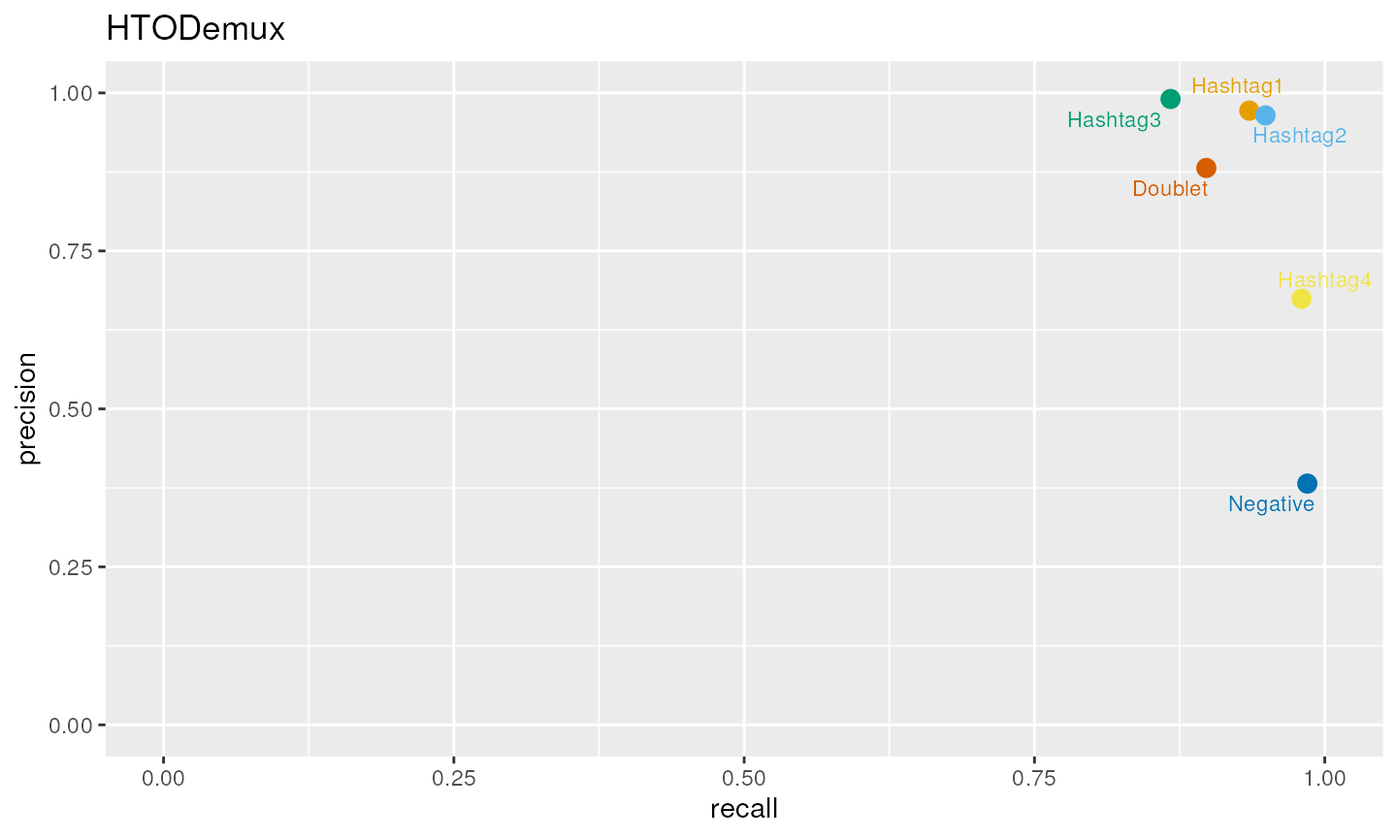
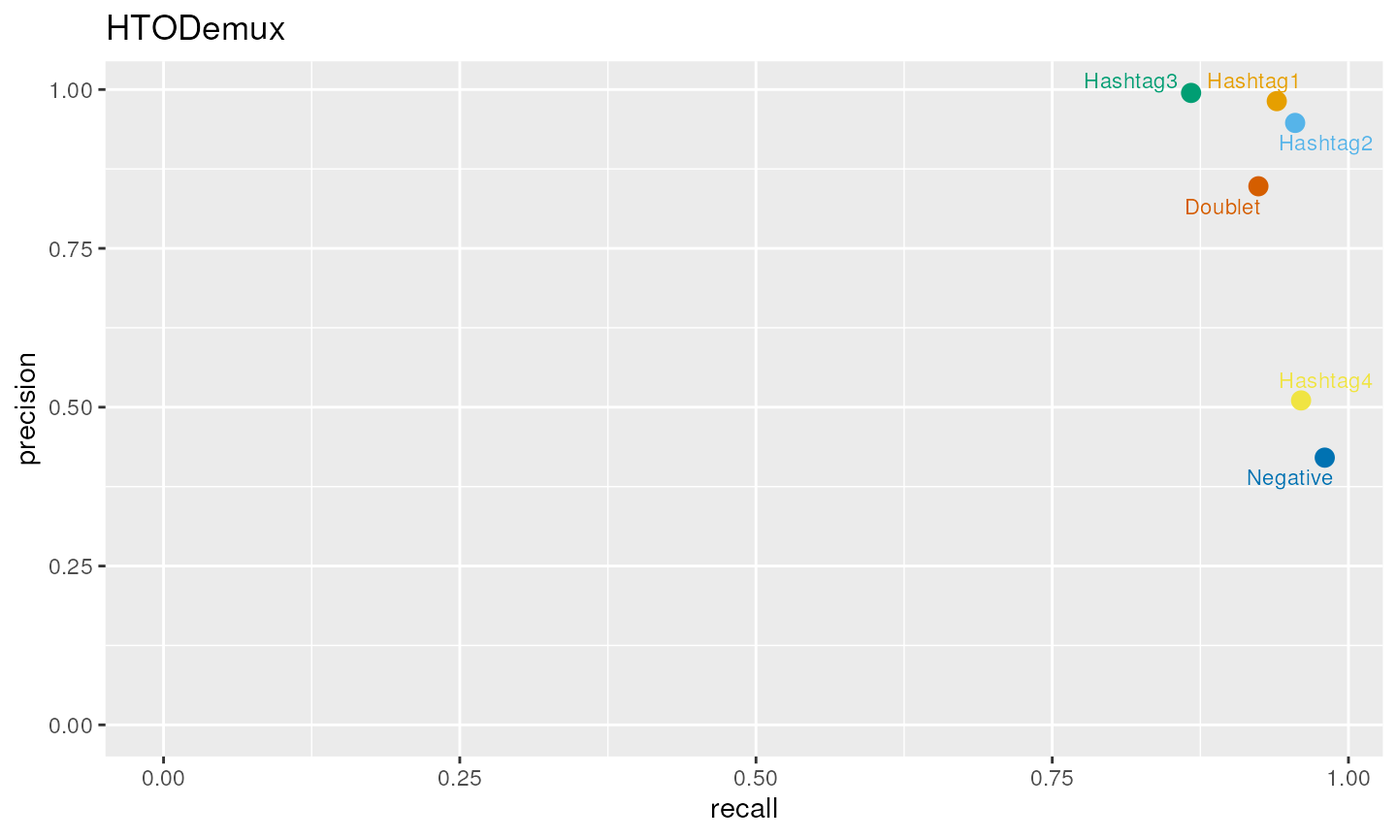
Deploying to gh-pages from @ michaelplynch/demultiplexing-bioc23@bce93db0af980b5a1336cb15e2a2da5696768368 🚀

diff --git a/articles/b-hashing-benchmarking.html b/articles/b-hashing-benchmarking.html
@@ -86,7 +86,7 @@ algorithms</h1>
                         <h4 data-toc-skip class="author">Michael
 Lynch</h4>
             
-            <h4 data-toc-skip class="date">2023-07-20</h4>
+            <h4 data-toc-skip class="date">2023-07-21</h4>
       
       <small class="dont-index">Source: <a href="https://github.com/michaelplynch/demultiplexing-bioc23/blob/HEAD/vignettes/b-hashing-benchmarking.Rmd" class="external-link"><code>vignettes/b-hashing-benchmarking.Rmd</code></a></small>
       <div class="hidden name"><code>b-hashing-benchmarking.Rmd</code></div>
@@ -202,7 +202,11 @@ associated with poor hashing quality.</p>
 <span><span class="co">#&gt; Warning: Using `bins = 30` by default. Pick better value with the argument</span></span>
 <span><span class="co">#&gt; `bins`.</span></span>
 <span><span class="co">#myplots[[5]]&lt;-xy</span></span>
-<span><span class="fu"><a href="https://rdrr.io/r/base/do.call.html" class="external-link">do.call</a></span><span class="op">(</span><span class="va">grid.arrange</span>,<span class="fu"><a href="https://rdrr.io/r/base/c.html" class="external-link">c</a></span><span class="op">(</span><span class="va">myplots</span>,nrow<span class="op">=</span><span class="fl">1</span><span class="op">)</span><span class="op">)</span></span></code></pre></div>
+<span><span class="fu"><a href="https://rdrr.io/r/base/do.call.html" class="external-link">do.call</a></span><span class="op">(</span><span class="va">grid.arrange</span>,<span class="fu"><a href="https://rdrr.io/r/base/c.html" class="external-link">c</a></span><span class="op">(</span><span class="va">myplots</span>,nrow<span class="op">=</span><span class="fl">1</span><span class="op">)</span><span class="op">)</span></span>
+<span><span class="co">#&gt; Warning: Removed 1 rows containing missing values (`geom_bar()`).</span></span>
+<span><span class="co">#&gt; Warning: Removed 1 rows containing missing values (`geom_bar()`).</span></span>
+<span><span class="co">#&gt; Removed 1 rows containing missing values (`geom_bar()`).</span></span>
+<span><span class="co">#&gt; Removed 1 rows containing missing values (`geom_bar()`).</span></span></code></pre></div>
 <p><img src="b-hashing-benchmarking_files/figure-html/unnamed-chunk-4-1.png" width="864"></p>
 <div class="sourceCode" id="cb6"><pre class="downlit sourceCode r">
 <code class="sourceCode R"><span></span>
@@ -219,10 +223,10 @@ associated with poor hashing quality.</p>
 ## Poor quality hashing</p>
 <div class="sourceCode" id="cb7"><pre class="downlit sourceCode r">
 <code class="sourceCode R"><span></span>
-<span><span class="va">mu1</span><span class="op">&lt;-</span><span class="fl">500</span></span>
-<span><span class="va">mu2</span><span class="op">&lt;-</span><span class="fl">30</span></span>
-<span><span class="va">mat</span><span class="op">&lt;-</span><span class="fu"><a href="../reference/logimat.html">logimat</a></span><span class="op">(</span>ngroups<span class="op">=</span><span class="fl">4</span>,nsinglet<span class="op">=</span><span class="fu"><a href="https://rdrr.io/r/base/c.html" class="external-link">c</a></span><span class="op">(</span><span class="fl">2000</span>,<span class="fl">1000</span>,<span class="fl">2500</span>,<span class="fl">150</span><span class="op">)</span>,ndoub<span class="op">=</span><span class="fl">1000</span>,nneg<span class="op">=</span><span class="fl">200</span><span class="op">)</span></span>
-<span><span class="va">counts</span><span class="op">&lt;-</span><span class="fu"><a href="../reference/draw_counts.html">draw_counts</a></span><span class="op">(</span>size_sig<span class="op">=</span><span class="fl">2.5</span>,size_bg <span class="op">=</span> <span class="fl">3.5</span>,mu_sig <span class="op">=</span> <span class="fu"><a href="https://rdrr.io/r/base/c.html" class="external-link">c</a></span><span class="op">(</span><span class="va">mu1</span><span class="op">*</span><span class="fl">1.2</span>,<span class="va">mu1</span><span class="op">*</span><span class="fl">0.8</span>,<span class="va">mu1</span><span class="op">*</span><span class="fl">0.7</span>,<span class="va">mu1</span><span class="op">*</span><span class="fl">0.9</span><span class="op">)</span>,mu_bg <span class="op">=</span> <span class="fu"><a href="https://rdrr.io/r/base/c.html" class="external-link">c</a></span><span class="op">(</span><span class="va">mu2</span>,<span class="va">mu2</span>,<span class="va">mu2</span>,<span class="va">mu2</span><span class="op">)</span>,mat<span class="op">=</span><span class="va">mat</span>,seed<span class="op">=</span><span class="fl">1</span><span class="op">)</span></span>
+<span><span class="va">mu1</span><span class="op">&lt;-</span><span class="fl">400</span></span>
+<span><span class="va">mu2</span><span class="op">&lt;-</span><span class="fl">20</span></span>
+<span><span class="va">mat</span><span class="op">&lt;-</span><span class="fu"><a href="../reference/logimat.html">logimat</a></span><span class="op">(</span>ngroups<span class="op">=</span><span class="fl">4</span>,nsinglet<span class="op">=</span><span class="fu"><a href="https://rdrr.io/r/base/c.html" class="external-link">c</a></span><span class="op">(</span><span class="fl">2000</span>,<span class="fl">1000</span>,<span class="fl">3200</span>,<span class="fl">150</span><span class="op">)</span>,ndoub<span class="op">=</span><span class="fl">1000</span>,nneg<span class="op">=</span><span class="fl">200</span><span class="op">)</span></span>
+<span><span class="va">counts</span><span class="op">&lt;-</span><span class="fu"><a href="../reference/draw_counts.html">draw_counts</a></span><span class="op">(</span>size_sig<span class="op">=</span><span class="fl">2.5</span>,size_bg <span class="op">=</span> <span class="fu"><a href="https://rdrr.io/r/base/c.html" class="external-link">c</a></span><span class="op">(</span><span class="fl">2.5</span>,<span class="fl">2.5</span>,<span class="fl">2</span>,<span class="fl">2.5</span><span class="op">)</span>,mu_sig <span class="op">=</span> <span class="fu"><a href="https://rdrr.io/r/base/c.html" class="external-link">c</a></span><span class="op">(</span><span class="va">mu1</span><span class="op">*</span><span class="fl">1.2</span>,<span class="va">mu1</span><span class="op">*</span><span class="fl">0.9</span>,<span class="va">mu1</span><span class="op">*</span><span class="fl">0.7</span>,<span class="va">mu1</span><span class="op">*</span><span class="fl">0.9</span><span class="op">)</span>,mu_bg <span class="op">=</span> <span class="fu"><a href="https://rdrr.io/r/base/c.html" class="external-link">c</a></span><span class="op">(</span><span class="va">mu2</span>,<span class="va">mu2</span>,<span class="va">mu2</span>,<span class="va">mu2</span><span class="op">)</span>,mat<span class="op">=</span><span class="va">mat</span>,seed<span class="op">=</span><span class="fl">1</span><span class="op">)</span></span>
 <span><span class="va">hto</span><span class="op">&lt;-</span><span class="fu"><a href="https://rdrr.io/pkg/SingleCellExperiment/man/SingleCellExperiment.html" class="external-link">SingleCellExperiment</a></span><span class="op">(</span><span class="fu"><a href="https://rdrr.io/r/base/list.html" class="external-link">list</a></span><span class="op">(</span>counts<span class="op">=</span><span class="va">counts</span><span class="op">)</span><span class="op">)</span></span>
 <span></span>
 <span><span class="va">seurat</span><span class="op">&lt;-</span><span class="fu"><a href="https://mojaveazure.github.io/seurat-object/reference/CreateSeuratObject.html" class="external-link">CreateSeuratObject</a></span><span class="op">(</span>counts<span class="op">=</span><span class="va">counts</span>,assay<span class="op">=</span><span class="st">"HTO"</span><span class="op">)</span></span>
@@ -247,7 +251,7 @@ associated with poor hashing quality.</p>
 <span><span class="va">df</span><span class="op">&lt;-</span><span class="fu"><a href="https://rdrr.io/r/base/data.frame.html" class="external-link">data.frame</a></span><span class="op">(</span><span class="va">precision</span>,<span class="va">recall</span>,<span class="va">groups</span><span class="op">)</span></span>
 <span></span>
 <span><span class="co">#split=seurat$hashtag=="Hashtag4" &amp; seurat$hash.ID!= "Hashtag4"</span></span>
-<span><span class="va">myplots</span><span class="op">&lt;-</span><span class="fu"><a href="../reference/plot_hashtag.html">plot_hashtag</a></span><span class="op">(</span><span class="fu"><a href="https://rdrr.io/r/base/as.data.frame.html" class="external-link">as.data.frame</a></span><span class="op">(</span><span class="fu"><a href="https://rdrr.io/r/base/t.html" class="external-link">t</a></span><span class="op">(</span><span class="va">seurat</span><span class="op">[[</span><span class="st">"HTO"</span><span class="op">]</span><span class="op">]</span><span class="op">@</span><span class="va">data</span><span class="op">)</span><span class="op">)</span>,split<span class="op">=</span><span class="cn">NULL</span><span class="op">)</span></span>
+<span><span class="va">myplots</span><span class="op">&lt;-</span><span class="fu"><a href="../reference/plot_hashtag.html">plot_hashtag</a></span><span class="op">(</span><span class="fu"><a href="https://rdrr.io/r/base/as.data.frame.html" class="external-link">as.data.frame</a></span><span class="op">(</span><span class="fu"><a href="https://rdrr.io/r/base/t.html" class="external-link">t</a></span><span class="op">(</span><span class="va">seurat</span><span class="op">[[</span><span class="st">"HTO"</span><span class="op">]</span><span class="op">]</span><span class="op">@</span><span class="va">data</span><span class="op">)</span><span class="op">)</span>,split<span class="op">=</span><span class="cn">NULL</span>,xlim<span class="op">=</span><span class="fu"><a href="https://rdrr.io/r/base/c.html" class="external-link">c</a></span><span class="op">(</span><span class="fl">0</span>,<span class="fl">4</span><span class="op">)</span>,ylim<span class="op">=</span><span class="fu"><a href="https://rdrr.io/r/base/c.html" class="external-link">c</a></span><span class="op">(</span><span class="fl">0</span>,<span class="fl">2000</span><span class="op">)</span><span class="op">)</span></span>
 <span><span class="co">#myplots[[5]]&lt;-xy</span></span>
 <span><span class="fu"><a href="https://rdrr.io/r/base/do.call.html" class="external-link">do.call</a></span><span class="op">(</span><span class="va">grid.arrange</span>,<span class="fu"><a href="https://rdrr.io/r/base/c.html" class="external-link">c</a></span><span class="op">(</span><span class="va">myplots</span>,nrow<span class="op">=</span><span class="fl">1</span><span class="op">)</span><span class="op">)</span></span></code></pre></div>
 <p><img src="b-hashing-benchmarking_files/figure-html/unnamed-chunk-6-1.png" width="864"></p>
@@ -259,8 +263,8 @@ associated with poor hashing quality.</p>
 <span>  <span class="fu"><a href="https://rdrr.io/pkg/ggrepel/man/geom_text_repel.html" class="external-link">geom_text_repel</a></span><span class="op">(</span><span class="fu"><a href="https://ggplot2.tidyverse.org/reference/aes.html" class="external-link">aes</a></span><span class="op">(</span>label<span class="op">=</span><span class="va">groups</span><span class="op">)</span>, size<span class="op">=</span><span class="fl">3</span>,show.legend <span class="op">=</span> <span class="cn">FALSE</span>,force<span class="op">=</span><span class="fl">10</span><span class="op">)</span> <span class="op">+</span></span>
 <span>  <span class="fu"><a href="https://ggplot2.tidyverse.org/reference/scale_continuous.html" class="external-link">scale_x_continuous</a></span><span class="op">(</span>labels <span class="op">=</span> <span class="fu"><a href="https://scales.r-lib.org/reference/label_number.html" class="external-link">label_number</a></span><span class="op">(</span>accuracy <span class="op">=</span> <span class="fl">0.01</span><span class="op">)</span><span class="op">)</span> <span class="op">+</span></span>
 <span>  <span class="fu"><a href="https://ggplot2.tidyverse.org/reference/scale_continuous.html" class="external-link">scale_y_continuous</a></span><span class="op">(</span>labels <span class="op">=</span> <span class="fu"><a href="https://scales.r-lib.org/reference/label_number.html" class="external-link">label_number</a></span><span class="op">(</span>accuracy <span class="op">=</span> <span class="fl">0.01</span><span class="op">)</span><span class="op">)</span> <span class="op">+</span> </span>
-<span>  <span class="fu"><a href="https://ggplot2.tidyverse.org/reference/lims.html" class="external-link">xlim</a></span><span class="op">(</span><span class="fl">0</span>,<span class="fl">1</span><span class="op">)</span> <span class="op">+</span></span>
-<span>  <span class="fu"><a href="https://ggplot2.tidyverse.org/reference/lims.html" class="external-link">ylim</a></span><span class="op">(</span><span class="fl">0</span>,<span class="fl">1</span><span class="op">)</span> <span class="op">+</span> <span class="fu"><a href="https://ggplot2.tidyverse.org/reference/labs.html" class="external-link">ggtitle</a></span><span class="op">(</span><span class="st">"HTODemux"</span><span class="op">)</span></span>
+<span>  <span class="fu"><a href="https://ggplot2.tidyverse.org/reference/lims.html" class="external-link">xlim</a></span><span class="op">(</span><span class="fl">0</span>,<span class="cn">NA</span><span class="op">)</span> <span class="op">+</span></span>
+<span>  <span class="fu"><a href="https://ggplot2.tidyverse.org/reference/lims.html" class="external-link">ylim</a></span><span class="op">(</span><span class="fl">0</span>,<span class="cn">NA</span><span class="op">)</span> <span class="op">+</span> <span class="fu"><a href="https://ggplot2.tidyverse.org/reference/labs.html" class="external-link">ggtitle</a></span><span class="op">(</span><span class="st">"HTODemux"</span><span class="op">)</span></span>
 <span><span class="va">xy</span></span></code></pre></div>
 <p><img src="b-hashing-benchmarking_files/figure-html/unnamed-chunk-7-1.png" width="720"></p>
 <div class="sourceCode" id="cb9"><pre class="downlit sourceCode r">

diff --git a/articles/a-intro-to-demultiplexing.html b/articles/a-intro-to-demultiplexing.html
@@ -85,7 +85,7 @@
                         <h4 data-toc-skip class="author">Michael
 Lynch</h4>
             
-            <h4 data-toc-skip class="date">2023-07-20</h4>
+            <h4 data-toc-skip class="date">2023-07-21</h4>
       
       <small class="dont-index">Source: <a href="https://github.com/michaelplynch/demultiplexing-bioc23/blob/HEAD/vignettes/a-intro-to-demultiplexing.Rmd" class="external-link"><code>vignettes/a-intro-to-demultiplexing.Rmd</code></a></small>
       <div class="hidden name"><code>a-intro-to-demultiplexing.Rmd</code></div>
@@ -243,20 +243,24 @@ quality rather than RNA quality.</p>
 <span><span class="co">## `bins`.</span></span></code></pre>
 <div class="sourceCode" id="cb14"><pre class="downlit sourceCode r">
 <code class="sourceCode R"><span><span class="fu"><a href="https://rdrr.io/r/base/do.call.html" class="external-link">do.call</a></span><span class="op">(</span><span class="va">grid.arrange</span>,<span class="va">myplots</span><span class="op">)</span></span></code></pre></div>
+<pre><code><span><span class="co">## Warning: Removed 1 rows containing missing values (`geom_bar()`).</span></span></code></pre>
+<pre><code><span><span class="co">## Warning: Removed 1 rows containing missing values (`geom_bar()`).</span></span>
+<span><span class="co">## Removed 1 rows containing missing values (`geom_bar()`).</span></span>
+<span><span class="co">## Removed 1 rows containing missing values (`geom_bar()`).</span></span></code></pre>
 <p><img src="a-intro-to-demultiplexing_files/figure-html/unnamed-chunk-10-1.png" width="100%"></p>
 <p>Reduction in hashing quality leads to reduction in cell hashing
 algorithm performance.</p>
-<div class="sourceCode" id="cb15"><pre class="downlit sourceCode r">
+<div class="sourceCode" id="cb17"><pre class="downlit sourceCode r">
 <code class="sourceCode R"><span><span class="va">sce</span><span class="op">&lt;-</span><span class="fu"><a href="https://rdrr.io/pkg/BiocSingular/man/runPCA.html" class="external-link">runPCA</a></span><span class="op">(</span><span class="va">sce</span>, altexp<span class="op">=</span><span class="st">"HTO"</span>, exprs_values <span class="op">=</span> <span class="st">"logcounts"</span><span class="op">)</span></span></code></pre></div>
 <pre><code><span><span class="co">## Warning in check_numbers(k = k, nu = nu, nv = nv, limit = min(dim(x)) - : more</span></span>
 <span><span class="co">## singular values/vectors requested than available</span></span></code></pre>
 <pre><code><span><span class="co">## Warning in (function (A, nv = 5, nu = nv, maxit = 1000, work = nv + 7, reorth =</span></span>
 <span><span class="co">## TRUE, : You're computing too large a percentage of total singular values, use a</span></span>
 <span><span class="co">## standard svd instead.</span></span></code></pre>
-<div class="sourceCode" id="cb18"><pre class="downlit sourceCode r">
+<div class="sourceCode" id="cb20"><pre class="downlit sourceCode r">
 <code class="sourceCode R"><span><span class="fu"><a href="https://rdrr.io/pkg/dittoSeq/man/dittoDimPlot.html" class="external-link">dittoDimPlot</a></span><span class="op">(</span><span class="va">sce</span>,reduction.use<span class="op">=</span><span class="st">"PCA"</span>,<span class="st">"doubletClassify_between_label"</span><span class="op">)</span></span></code></pre></div>
 <p><img src="a-intro-to-demultiplexing_files/figure-html/unnamed-chunk-11-1.png" width="700"></p>
-<div class="sourceCode" id="cb19"><pre class="downlit sourceCode r">
+<div class="sourceCode" id="cb21"><pre class="downlit sourceCode r">
 <code class="sourceCode R"><span><span class="va">sce</span><span class="op">&lt;-</span><span class="fu"><a href="https://rdrr.io/pkg/scater/man/runTSNE.html" class="external-link">runTSNE</a></span><span class="op">(</span><span class="va">sce</span>, altexp <span class="op">=</span> <span class="st">"HTO"</span><span class="op">)</span></span>
 <span><span class="fu"><a href="https://rdrr.io/pkg/dittoSeq/man/dittoDimPlot.html" class="external-link">dittoDimPlot</a></span><span class="op">(</span><span class="va">sce</span>,reduction.use<span class="op">=</span><span class="st">"TSNE"</span>,<span class="st">"doubletClassify_between_label"</span><span class="op">)</span></span></code></pre></div>
 <p><img src="a-intro-to-demultiplexing_files/figure-html/unnamed-chunk-11-2.png" width="700"></p>
@@ -268,7 +272,7 @@ algorithm performance.</p>
 <p>The second class of methods exploits natural genetic variation
 between cells and so can only be used where the groups are genetically
 distinct.</p>
-<div class="sourceCode" id="cb20"><pre class="downlit sourceCode r">
+<div class="sourceCode" id="cb22"><pre class="downlit sourceCode r">
 <code class="sourceCode R"><span><span class="fu">knitr</span><span class="fu">::</span><span class="fu"><a href="https://rdrr.io/pkg/knitr/man/include_graphics.html" class="external-link">include_graphics</a></span><span class="op">(</span><span class="st">"./images/snps.png"</span><span class="op">)</span></span></code></pre></div>
 <div class="figure">
 <img src="images/snps.png" alt="SNP variation between individuals" width="50%"><p class="caption">
@@ -280,7 +284,7 @@ SNP variation between individuals
 </h5>
 <p>Below we describe a simplified example of what SNP data may look
 like.</p>
-<div class="sourceCode" id="cb21"><pre class="downlit sourceCode r">
+<div class="sourceCode" id="cb23"><pre class="downlit sourceCode r">
 <code class="sourceCode R"><span><span class="fu"><a href="https://rdrr.io/r/base/Random.html" class="external-link">set.seed</a></span><span class="op">(</span><span class="fl">1</span><span class="op">)</span></span>
 <span><span class="va">n</span><span class="op">=</span><span class="fu"><a href="https://rdrr.io/r/base/c.html" class="external-link">c</a></span><span class="op">(</span><span class="fl">50</span>,<span class="fl">50</span>,<span class="fl">50</span>,<span class="fl">50</span><span class="op">)</span></span>
 <span><span class="va">nsnps</span><span class="op">=</span><span class="fl">20</span></span>
@@ -310,7 +314,7 @@ like.</p>
 <span>    <span class="op">)</span><span class="op">)</span></span>
 <span><span class="fu"><a href="https://rdrr.io/pkg/ComplexHeatmap/man/draw-dispatch.html" class="external-link">draw</a></span><span class="op">(</span><span class="va">h1</span>,column_title<span class="op">=</span><span class="st">"Groupwise SNP profiles"</span><span class="op">)</span></span></code></pre></div>
 <p><img src="a-intro-to-demultiplexing_files/figure-html/unnamed-chunk-13-1.png" width="100%"></p>
-<div class="sourceCode" id="cb22"><pre class="downlit sourceCode r">
+<div class="sourceCode" id="cb24"><pre class="downlit sourceCode r">
 <code class="sourceCode R"><span><span class="va">h2</span><span class="op">&lt;-</span><span class="fu"><a href="https://rdrr.io/pkg/ComplexHeatmap/man/Heatmap.html" class="external-link">Heatmap</a></span><span class="op">(</span><span class="va">tot_mixed</span>,</span>
 <span>            cluster_columns <span class="op">=</span> <span class="cn">FALSE</span>, </span>
 <span>            cluster_rows<span class="op">=</span><span class="cn">FALSE</span>, </span>
@@ -325,7 +329,7 @@ like.</p>
 <span>    <span class="op">)</span><span class="op">)</span></span>
 <span><span class="fu"><a href="https://rdrr.io/pkg/ComplexHeatmap/man/draw-dispatch.html" class="external-link">draw</a></span><span class="op">(</span><span class="va">h2</span>,column_title<span class="op">=</span><span class="st">"Mixed SNP profiles"</span><span class="op">)</span></span></code></pre></div>
 <p><img src="a-intro-to-demultiplexing_files/figure-html/unnamed-chunk-13-2.png" width="100%"></p>
-<div class="sourceCode" id="cb23"><pre class="downlit sourceCode r">
+<div class="sourceCode" id="cb25"><pre class="downlit sourceCode r">
 <code class="sourceCode R"><span><span class="va">h3</span><span class="op">&lt;-</span><span class="fu"><a href="https://rdrr.io/pkg/ComplexHeatmap/man/Heatmap.html" class="external-link">Heatmap</a></span><span class="op">(</span><span class="va">tot_mixed</span>,</span>
 <span>            cluster_columns <span class="op">=</span> <span class="cn">TRUE</span>,</span>
 <span>            cluster_rows<span class="op">=</span><span class="cn">FALSE</span>,</span>
@@ -352,7 +356,7 @@ cells.</p>
 <div class="section level5">
 <h5 id="snp-profiles">SNP profiles<a class="anchor" aria-label="anchor" href="#snp-profiles"></a>
 </h5>
-<div class="sourceCode" id="cb24"><pre class="downlit sourceCode r">
+<div class="sourceCode" id="cb26"><pre class="downlit sourceCode r">
 <code class="sourceCode R"><span><span class="fu"><a href="https://rdrr.io/r/utils/data.html" class="external-link">data</a></span><span class="op">(</span><span class="va">vartrix_consensus_snps</span>,package<span class="op">=</span><span class="st">'demuxSNP'</span><span class="op">)</span></span>
 <span><span class="fu"><a href="https://rdrr.io/pkg/ComplexHeatmap/man/Heatmap.html" class="external-link">Heatmap</a></span><span class="op">(</span><span class="va">vartrix_consensus_snps</span>,</span>
 <span>        cluster_rows<span class="op">=</span><span class="cn">FALSE</span>,</span>
@@ -370,7 +374,7 @@ cells.</p>
 <p>Only some of these SNPs are present in the six samples, so lets
 filtered out some of the SNPs we don’t have reads for across the
 board.</p>
-<div class="sourceCode" id="cb26"><pre class="downlit sourceCode r">
+<div class="sourceCode" id="cb28"><pre class="downlit sourceCode r">
 <code class="sourceCode R"><span><span class="va">filtered_mat</span><span class="op">&lt;-</span><span class="va">vartrix_consensus_snps</span><span class="op">[</span><span class="fu"><a href="https://rdrr.io/r/base/colSums.html" class="external-link">rowSums</a></span><span class="op">(</span><span class="va">vartrix_consensus_snps</span><span class="op">&gt;</span><span class="fl">0</span><span class="op">)</span><span class="op">&gt;</span><span class="fl">1000</span>,<span class="op">]</span></span>
 <span><span class="fu"><a href="https://rdrr.io/r/base/mode.html" class="external-link">mode</a></span><span class="op">(</span><span class="va">filtered_mat</span><span class="op">)</span><span class="op">&lt;-</span><span class="st">"integer"</span></span>
 <span><span class="fu"><a href="https://rdrr.io/pkg/ComplexHeatmap/man/Heatmap.html" class="external-link">Heatmap</a></span><span class="op">(</span><span class="va">filtered_mat</span>,</span>
@@ -381,14 +385,14 @@ board.</p>
 <span>        labels <span class="op">=</span> <span class="fu"><a href="https://rdrr.io/r/base/c.html" class="external-link">c</a></span><span class="op">(</span><span class="st">"No reads"</span>, <span class="st">"Ref"</span>, <span class="st">"Alt"</span>,<span class="st">"Both"</span><span class="op">)</span></span>
 <span>    <span class="op">)</span><span class="op">)</span></span></code></pre></div>
 <p><img src="a-intro-to-demultiplexing_files/figure-html/unnamed-chunk-15-1.png" width="700"></p>
-<div class="sourceCode" id="cb27"><pre class="downlit sourceCode r">
+<div class="sourceCode" id="cb29"><pre class="downlit sourceCode r">
 <code class="sourceCode R"><span><span class="va">filtered_mat</span><span class="op">[</span><span class="va">filtered_mat</span> <span class="op">==</span> <span class="fl">0</span><span class="op">]</span> <span class="op">&lt;-</span> <span class="fu"><a href="https://rdrr.io/r/base/c.html" class="external-link">c</a></span><span class="op">(</span><span class="fl">0</span><span class="op">)</span></span>
 <span><span class="va">filtered_mat</span><span class="op">[</span><span class="va">filtered_mat</span> <span class="op">==</span> <span class="fl">1</span><span class="op">]</span> <span class="op">&lt;-</span> <span class="fu"><a href="https://rdrr.io/r/base/c.html" class="external-link">c</a></span><span class="op">(</span><span class="op">-</span><span class="fl">1</span><span class="op">)</span></span>
 <span><span class="va">filtered_mat</span><span class="op">[</span><span class="va">filtered_mat</span> <span class="op">==</span> <span class="fl">2</span><span class="op">]</span> <span class="op">&lt;-</span> <span class="fl">1</span></span>
 <span><span class="va">filtered_mat</span><span class="op">[</span><span class="va">filtered_mat</span> <span class="op">==</span> <span class="fl">3</span><span class="op">]</span> <span class="op">&lt;-</span> <span class="fl">1</span></span></code></pre></div>
 <p>Finally, we simplify the data to present, absent, or no reads in
 relation to our six samples.</p>
-<div class="sourceCode" id="cb28"><pre class="downlit sourceCode r">
+<div class="sourceCode" id="cb30"><pre class="downlit sourceCode r">
 <code class="sourceCode R"><span><span class="fu"><a href="https://rdrr.io/pkg/ComplexHeatmap/man/Heatmap.html" class="external-link">Heatmap</a></span><span class="op">(</span><span class="va">filtered_mat</span>,</span>
 <span>        cluster_rows<span class="op">=</span><span class="cn">FALSE</span>,</span>
 <span>        show_column_dend <span class="op">=</span> <span class="cn">FALSE</span>,</span>
@@ -404,7 +408,7 @@ relation to our six samples.</p>
 <div class="section level3">
 <h3 id="sessioninfo">Sessioninfo<a class="anchor" aria-label="anchor" href="#sessioninfo"></a>
 </h3>
-<div class="sourceCode" id="cb29"><pre class="downlit sourceCode r">
+<div class="sourceCode" id="cb31"><pre class="downlit sourceCode r">
 <code class="sourceCode R"><span><span class="fu"><a href="https://rdrr.io/r/utils/sessionInfo.html" class="external-link">sessionInfo</a></span><span class="op">(</span><span class="op">)</span></span></code></pre></div>
 <pre><code><span><span class="co">## R version 4.3.1 (2023-06-16)</span></span>
 <span><span class="co">## Platform: x86_64-pc-linux-gnu (64-bit)</span></span>

diff --git a/reference/plot_hashtag.html b/reference/plot_hashtag.html
@@ -66,7 +66,7 @@
     </div>
 
     <div id="ref-usage">
-    <div class="sourceCode"><pre class="sourceCode r"><code><span><span class="fu">plot_hashtag</span><span class="op">(</span><span class="va">df</span>, split <span class="op">=</span> <span class="cn">NULL</span><span class="op">)</span></span></code></pre></div>
+    <div class="sourceCode"><pre class="sourceCode r"><code><span><span class="fu">plot_hashtag</span><span class="op">(</span><span class="va">df</span>, split <span class="op">=</span> <span class="cn">NULL</span>, xlim <span class="op">=</span> <span class="fu"><a href="https://rdrr.io/r/base/c.html" class="external-link">c</a></span><span class="op">(</span><span class="fl">0</span>, <span class="cn">NA</span><span class="op">)</span>, ylim <span class="op">=</span> <span class="fu"><a href="https://rdrr.io/r/base/c.html" class="external-link">c</a></span><span class="op">(</span><span class="fl">0</span>, <span class="cn">NA</span><span class="op">)</span><span class="op">)</span></span></code></pre></div>
     </div>
 
     <div id="arguments">
@@ -77,6 +77,14 @@
 
 <dt>split</dt>
 <dd><p>variable to split histogram by</p></dd>
+
+
+<dt>xlim</dt>
+<dd><p>z axis limits, lower defaults to zero</p></dd>
+
+
+<dt>ylim</dt>
+<dd><p>y axis limits, lower defaults to zero</p></dd>
 
 </dl></div>
     <div id="value">

diff --git a/articles/c-demuxSNP-package-demo.html b/articles/c-demuxSNP-package-demo.html
@@ -215,7 +215,7 @@ refer to relevant documentation.</p>
 <span><span class="fu"><a href="https://rdrr.io/r/base/table.html" class="external-link">table</a></span><span class="op">(</span><span class="va">small_sce</span><span class="op">$</span><span class="va">knn</span><span class="op">)</span></span>
 <span><span class="co">#&gt; </span></span>
 <span><span class="co">#&gt;  Doublet Hashtag1 Hashtag3 Hashtag4 Hashtag5 Hashtag6 </span></span>
-<span><span class="co">#&gt;       22       11       17        7       11       32</span></span></code></pre></div>
+<span><span class="co">#&gt;       22       10       17        7       12       32</span></span></code></pre></div>
 <div class="section level4">
 <h4 id="function-explanation">Function Explanation<a class="anchor" aria-label="anchor" href="#function-explanation"></a>
 </h4>
